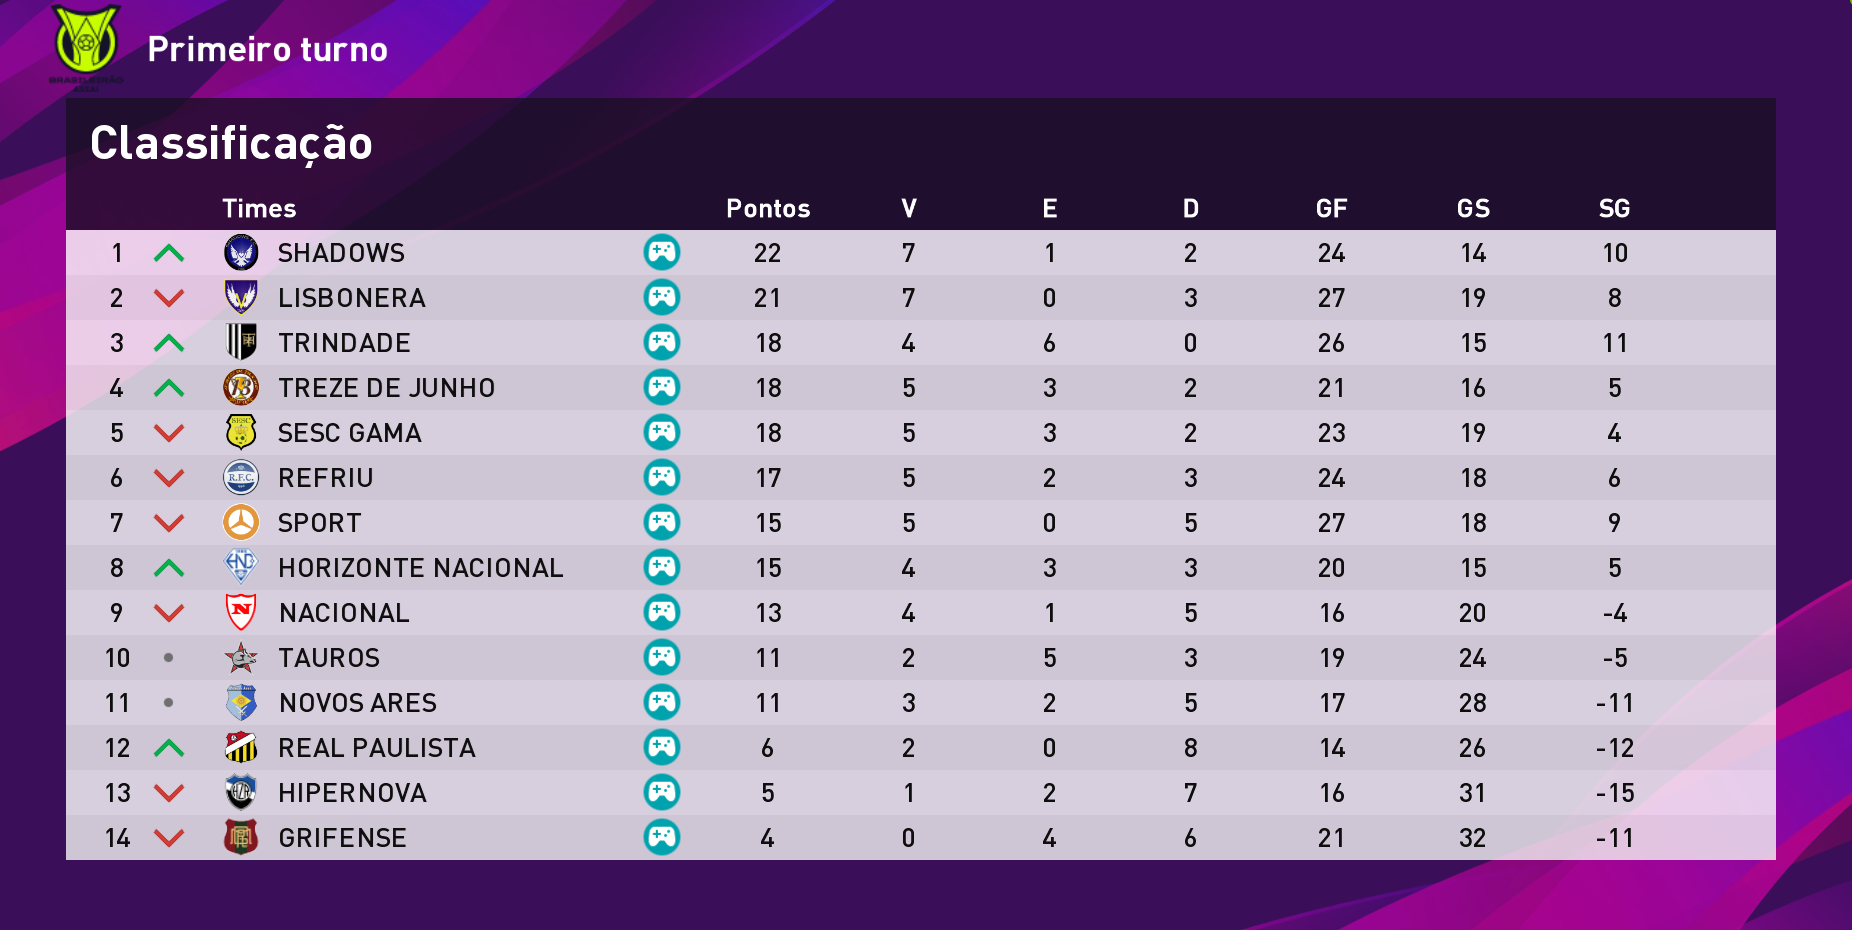
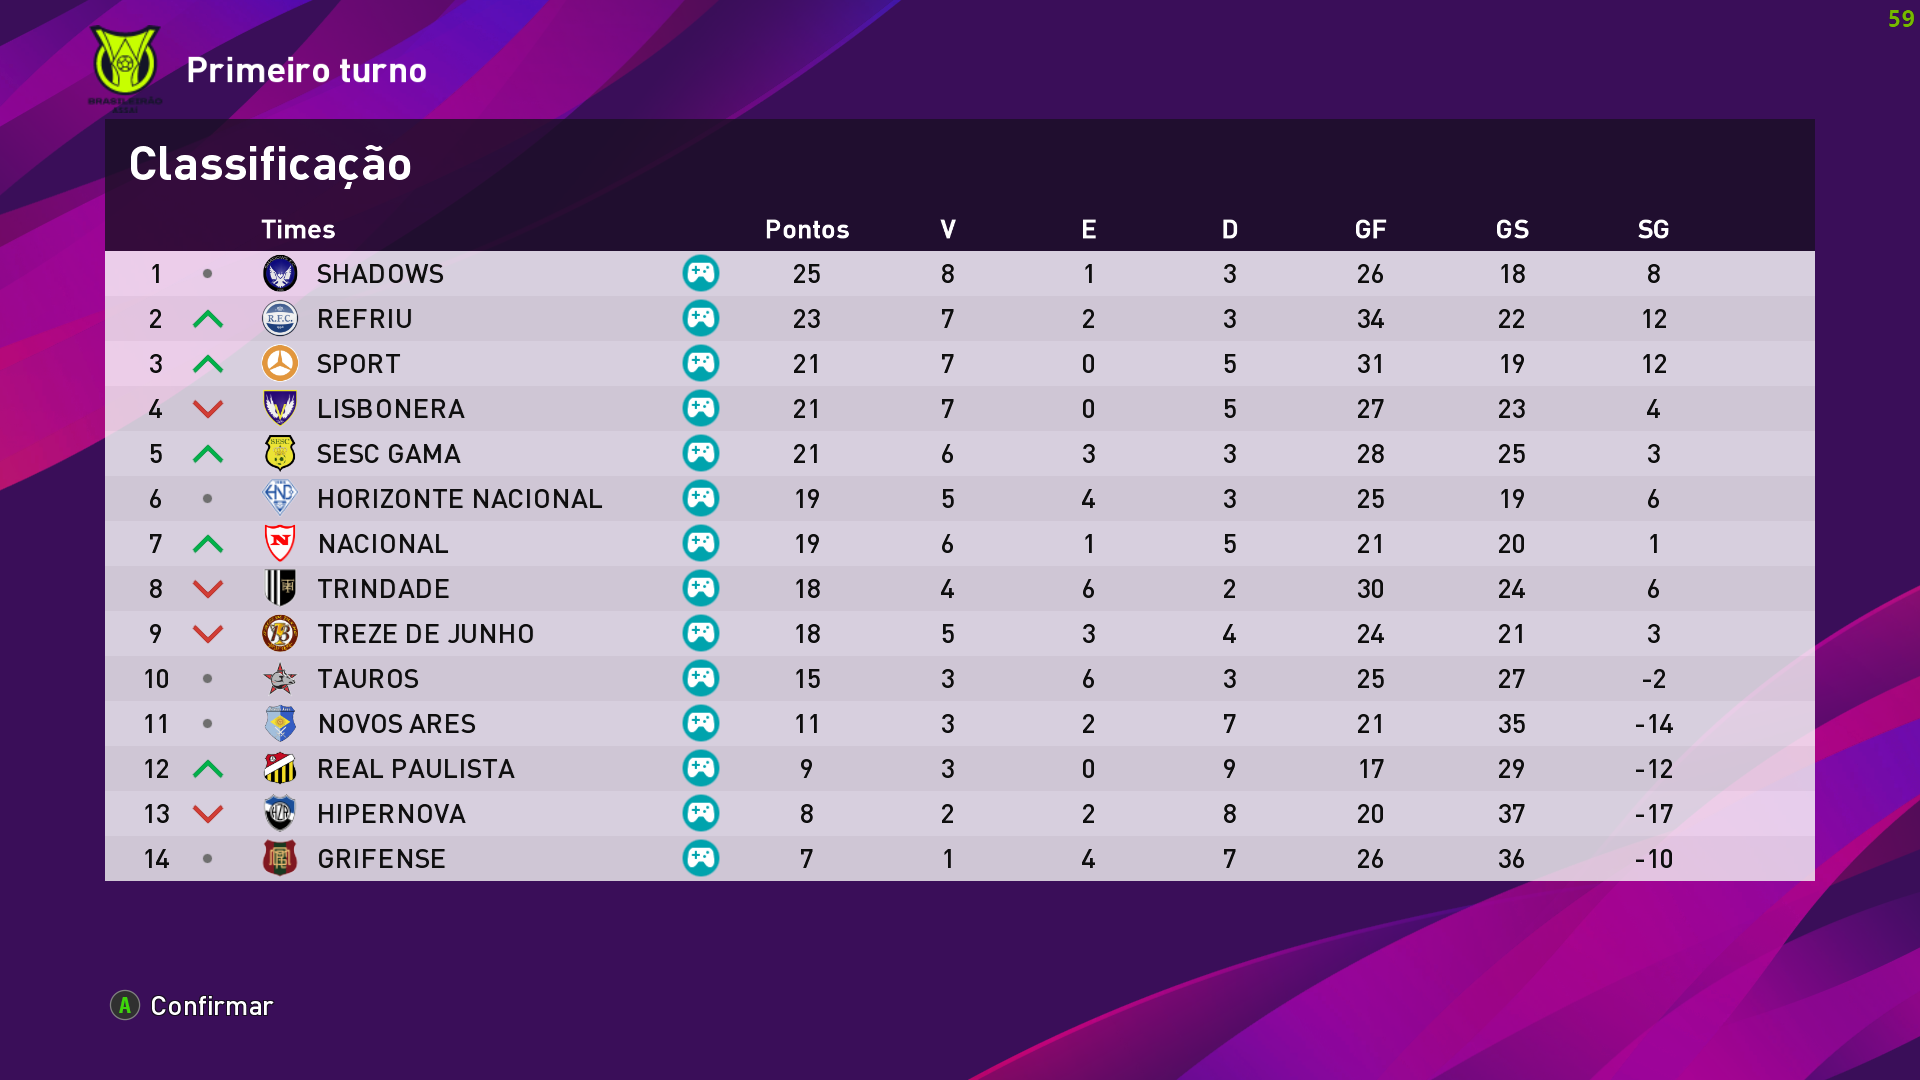
Update

diff --git a/index.html b/index.html
@@ -490,38 +490,126 @@
             </tr>
             <tr>
                 <td><img src="./img/Sesc.png" alt="Sesc" class="escudo"><p>Sesc</p></td>
-                <td class="placar"><p>0 - 0</p></td>
+                <td class="placar"><p><a href="https://www.youtube.com/watch?v=q2m2SusC3bg&list=PLijsnlzMsyRkzvSWsiut39l5uSuvKTDen&index=38" target="_blank">1 - 3</a></p></td>
                 <td><img src="./img/Sport.png" alt="Sport" class="escudo"><p>Sport</p></td>
             </tr>
             <tr>
                 <td><img src="./img/Lisbonera.png" alt="Lisbonera" class="escudo"><p>Lisbonera</p></td>
-                <td class="placar"><p>0 - 0</p></td>
+                <td class="placar"><p><a href="https://www.youtube.com/watch?v=554NrI4xUao&list=PLijsnlzMsyRkzvSWsiut39l5uSuvKTDen&index=39" target="_blank">0 - 3</a></p></td>
                 <td><img src="./img/Tauros.png" alt="Tauros" class="escudo"><p>Tauros</p></td>
             </tr>
             <tr>
                 <td><img src="./img/Horizonte.png" alt="Horizonte" class="escudo"><p>Horizonte</p></td>
-                <td class="placar"><p>0 - 0</p></td>
+                <td class="placar"><p><a href="https://www.youtube.com/watch?v=cv4NVHWH2sI&list=PLijsnlzMsyRkzvSWsiut39l5uSuvKTDen&index=40" target="_blank">2 - 1</a></p></td>
                 <td><img src="./img/Treze.png" alt="Treze" class="escudo"><p>Treze</p></td>
             </tr>
             <tr>
                 <td><img src="./img/Real.png" alt="Real" class="escudo"><p>Real</p></td>
-                <td class="placar"><p><a href="" target="_blank">0 - 0</a></p></td>
+                <td class="placar"><p><a href="https://www.youtube.com/watch?v=4CeproG9KLM&list=PLijsnlzMsyRkzvSWsiut39l5uSuvKTDen&index=41" target="_blank">0 - 1</a></p></td>
                 <td><img src="./img/Nacional.png" alt="Nacional" class="escudo"><p>Nacional</p></td>
             </tr>
             <tr>
                 <td><img src="./img/Hipernova.png" alt="Hipernova" class="escudo"><p>Hipernova</p></td>
-                <td class="placar"><p><a href="" target="_blank">0 - 0</a></p></td>
+                <td class="placar"><p><a href="https://www.youtube.com/watch?v=dsaResxZXCk&list=PLijsnlzMsyRkzvSWsiut39l5uSuvKTDen&index=42" target="_blank">4 - 2</a></p></td>
                 <td><img src="./img/Grifense.png" alt="Grifense" class="escudo"><p>Grifense</p></td>
             </tr>
             <tr>
                 <td><img src="./img/Shadows.png" alt="Shadows" class="escudo"><p>Shadows</p></td>
-                <td class="placar"><p>0 - 0</p></td>
+                <td class="placar"><p><a href="https://www.youtube.com/watch?v=9YaZdEBCFIg&list=PLijsnlzMsyRkzvSWsiut39l5uSuvKTDen&index=43" target="_blank">2 - 1</a></p></td>
                 <td><img src="./img/Novos.png" alt="Novos Ares" class="escudo"><p>Novos Ares</p></td>
             </tr>
             <tr>
                 <td><img src="./img/Refriu.png" alt="Refriu" class="escudo"><p>Refriu</p></td>
+                <td class="placar"><p><a href="https://www.youtube.com/watch?v=plUhRCYrIiw&list=PLijsnlzMsyRkzvSWsiut39l5uSuvKTDen&index=44" target="_blank">5 - 1</a></p></td>
+                <td><img src="./img/Trindade.png" alt="Trindade" class="escudo"><p>Trindade</p></td>
+            </tr>
+        </table>
+
+        <table class="invisivel" id="rod12">
+            <caption>Rodada 12</caption>
+            <tr>
+                <th>Mandante</th>
+                <th>Resultado</th>
+                <th>Visitante</th>
+            </tr>
+            <tr>
+                <td><img src="./img/Trindade.png" alt="Trindade" class="escudo"><p>Trindade</p></td>
+                <td class="placar"><p><a href="https://www.youtube.com/watch?v=gk_GmUjE4S4&list=PLijsnlzMsyRkzvSWsiut39l5uSuvKTDen&index=45" target="_blank">3 - 4</a></p></td>
+                <td><img src="./img/Sesc.png" alt="Sesc" class="escudo"><p>Sesc</p></td>
+            </tr>
+            <tr>
+                <td><img src="./img/Sport.png" alt="Sport" class="escudo"><p>Sport</p></td>
+                <td class="placar"><p><a href="https://www.youtube.com/watch?v=fxts_xHVjKw&list=PLijsnlzMsyRkzvSWsiut39l5uSuvKTDen&index=46" target="_blank">1 - 0</a></p></td>
+                <td><img src="./img/Lisbonera.png" alt="Lisbonera" class="escudo"><p>Lisbonera</p></td>
+            </tr>
+            <tr>
+                <td><img src="./img/Tauros.png" alt="Tauros" class="escudo"><p>Tauros</p></td>
+                <td class="placar"><p><a href="https://www.youtube.com/watch?v=j6P9jsqOk08&list=PLijsnlzMsyRkzvSWsiut39l5uSuvKTDen&index=47" target="_blank">3 - 3</a></p></td>
+                <td><img src="./img/Horizonte.png" alt="Horizonte" class="escudo"><p>Horizonte</p></td>
+            </tr>
+            <tr>
+                <td><img src="./img/Treze.png" alt="Treze" class="escudo"><p>Treze</p></td>
+                <td class="placar"><p><a href="https://www.youtube.com/watch?v=_JSSyWNZse8&list=PLijsnlzMsyRkzvSWsiut39l5uSuvKTDen&index=48" target="_blank">2 - 3</a></p></td>
+                <td><img src="./img/Real.png" alt="Real" class="escudo"><p>Real</p></td>
+            </tr>
+            <tr>
+                <td><img src="./img/Nacional.png" alt="Nacional" class="escudo"><p>Nacional</p></td>
+                <td class="placar"><p><a href="https://www.youtube.com/watch?v=BQQaFQgcrsU&list=PLijsnlzMsyRkzvSWsiut39l5uSuvKTDen&index=49" target="_blank">4 - 0</a></p></td>
+                <td><img src="./img/Hipernova.png" alt="Hipernova" class="escudo"><p>Hipernova</p></td>
+            </tr>
+            <tr>
+                <td><img src="./img/Grifense.png" alt="Grifense" class="escudo"><p>Grifense</p></td>
+                <td class="placar"><p><a href="https://www.youtube.com/watch?v=wu75Xbm8Nhc&list=PLijsnlzMsyRkzvSWsiut39l5uSuvKTDen&index=50" target="_blank">3 - 0</a></p></td>
+                <td><img src="./img/Shadows.png" alt="Shadows" class="escudo"><p>Shadows</p></td>
+            </tr>
+            <tr>
+                <td><img src="./img/Novos.png" alt="Novos Ares" class="escudo"><p>Novos Ares</p></td>
+                <td class="placar"><p><a href="https://www.youtube.com/watch?v=jP331mV-wEo&list=PLijsnlzMsyRkzvSWsiut39l5uSuvKTDen&index=51" target="_blank">3 - 5</a></p></td>
+                <td><img src="./img/Refriu.png" alt="Refriu" class="escudo"><p>Refriu</p></td>
+            </tr>
+        </table>
+
+        <table class="invisivel" id="rod13">
+            <caption>Rodada 13</caption>
+            <tr>
+                <th>Mandante</th>
+                <th>Resultado</th>
+                <th>Visitante</th>
+            </tr>
+            <tr>
+                <td><img src="./img/Refriu.png" alt="Refriu" class="escudo"><p>Refriu</p></td>
+                <td class="placar"><p><a href="" target="_blank">0 - 0</a></p></td>
+                <td><img src="./img/Sesc.png" alt="Sesc" class="escudo"><p>Sesc</p></td>
+            </tr>
+            <tr>
+                <td><img src="./img/Lisbonera.png" alt="Lisbonera" class="escudo"><p>Lisbonera</p></td>
                 <td class="placar"><p><a href="" target="_blank">0 - 0</a></p></td>
                 <td><img src="./img/Trindade.png" alt="Trindade" class="escudo"><p>Trindade</p></td>
+            </tr>
+            <tr>
+                <td><img src="./img/Horizonte.png" alt="Horizonte" class="escudo"><p>Horizonte</p></td>
+                <td class="placar"><p><a href="" target="_blank">0 - 0</a></p></td>
+                <td><img src="./img/Sport.png" alt="Sport" class="escudo"><p>Sport</p></td>
+            </tr>
+            <tr>
+                <td><img src="./img/Real.png" alt="Real" class="escudo"><p>Real</p></td>
+                <td class="placar"><p><a href="" target="_blank">0 - 0</a></p></td>
+                <td><img src="./img/Tauros.png" alt="Tauros" class="escudo"><p>Tauros</p></td>
+            </tr>
+            <tr>
+                <td><img src="./img/Hipernova.png" alt="Hipernova" class="escudo"><p>Hipernova</p></td>
+                <td class="placar"><p><a href="" target="_blank">0 - 0</a></p></td>
+                <td><img src="./img/Treze.png" alt="Treze" class="escudo"><p>Treze</p></td>
+            </tr>
+            <tr>
+                <td><img src="./img/Shadows.png" alt="Shadows" class="escudo"><p>Shadows</p></td>
+                <td class="placar"><p><a href="" target="_blank">0 - 0</a></p></td>
+                <td><img src="./img/Nacional.png" alt="Nacional" class="escudo"><p>Nacional</p></td>
+            </tr>
+            <tr>
+                <td><img src="./img/Novos.png" alt="Novos Ares" class="escudo"><p>Novos Ares</p></td>
+                <td class="placar"><p><a href="" target="_blank">0 - 0</a></p></td>
+                <td><img src="./img/Grifense.png" alt="Grifense" class="escudo"><p>Grifense</p></td>
             </tr>
         </table>
 

diff --git a/script.js b/script.js
@@ -10,6 +10,8 @@ let rod8 = document.getElementById('rod8')
 let rod9 = document.getElementById('rod9')
 let rod10 = document.getElementById('rod10')
 let rod11 = document.getElementById('rod11')
+let rod12 = document.getElementById('rod12')
+let rod13 = document.getElementById('rod13')
 let btn = document.getElementById('btn')
 let btnVoltar = document.getElementById('voltar')
 let btnAvancar = document.getElementById('avancar')
@@ -50,6 +52,8 @@ function verRodada() {
             rod9.classList.add('invisivel')
             rod10.classList.add('invisivel')
             rod11.classList.add('invisivel')
+            rod12.classList.add('invisivel')
+            rod13.classList.add('invisivel')
             break;
         case 2:
             rod2.classList.remove('invisivel')
@@ -63,6 +67,8 @@ function verRodada() {
             rod9.classList.add('invisivel')
             rod10.classList.add('invisivel')
             rod11.classList.add('invisivel')
+            rod12.classList.add('invisivel')
+            rod13.classList.add('invisivel')
             break;
         case 3:
             rod3.classList.remove('invisivel')
@@ -76,6 +82,8 @@ function verRodada() {
             rod9.classList.add('invisivel')
             rod10.classList.add('invisivel')
             rod11.classList.add('invisivel')
+            rod12.classList.add('invisivel')
+            rod13.classList.add('invisivel')
             break;
         case 4:
             rod4.classList.remove('invisivel')
@@ -89,6 +97,8 @@ function verRodada() {
             rod9.classList.add('invisivel')
             rod10.classList.add('invisivel')
             rod11.classList.add('invisivel')
+            rod12.classList.add('invisivel')
+            rod13.classList.add('invisivel')
             break;
         case 5:
             rod5.classList.remove('invisivel')
@@ -102,6 +112,8 @@ function verRodada() {
             rod9.classList.add('invisivel')
             rod10.classList.add('invisivel')
             rod11.classList.add('invisivel')
+            rod12.classList.add('invisivel')
+            rod13.classList.add('invisivel')
             break;
         case 6:
             rod6.classList.remove('invisivel')
@@ -115,6 +127,8 @@ function verRodada() {
             rod9.classList.add('invisivel')
             rod10.classList.add('invisivel')
             rod11.classList.add('invisivel')
+            rod12.classList.add('invisivel')
+            rod13.classList.add('invisivel')
             break;   
         case 7:
             rod7.classList.remove('invisivel')
@@ -128,6 +142,8 @@ function verRodada() {
             rod9.classList.add('invisivel')
             rod10.classList.add('invisivel')
             rod11.classList.add('invisivel')
+            rod12.classList.add('invisivel')
+            rod13.classList.add('invisivel')
             break;
         case 8:
             rod8.classList.remove('invisivel')
@@ -141,6 +157,8 @@ function verRodada() {
             rod9.classList.add('invisivel')
             rod10.classList.add('invisivel')
             rod11.classList.add('invisivel')
+            rod12.classList.add('invisivel')
+            rod13.classList.add('invisivel')
             break;
         case 9:
             rod9.classList.remove('invisivel')
@@ -154,6 +172,8 @@ function verRodada() {
             rod8.classList.add('invisivel')
             rod10.classList.add('invisivel')
             rod11.classList.add('invisivel')
+            rod12.classList.add('invisivel')
+            rod13.classList.add('invisivel')
             break;
         case 10:
             rod10.classList.remove('invisivel')
@@ -167,6 +187,8 @@ function verRodada() {
             rod8.classList.add('invisivel')
             rod9.classList.add('invisivel')
             rod11.classList.add('invisivel')
+            rod12.classList.add('invisivel')
+            rod13.classList.add('invisivel')
             break;
         case 11:
             rod11.classList.remove('invisivel')
@@ -180,7 +202,39 @@ function verRodada() {
             rod8.classList.add('invisivel')
             rod9.classList.add('invisivel')
             rod10.classList.add('invisivel')
-            break;        
+            rod12.classList.add('invisivel')
+            rod13.classList.add('invisivel')
+            break;
+        case 12:
+            rod12.classList.remove('invisivel')
+            rod1.classList.add('invisivel')
+            rod2.classList.add('invisivel')
+            rod3.classList.add('invisivel')
+            rod4.classList.add('invisivel')
+            rod5.classList.add('invisivel')
+            rod6.classList.add('invisivel')
+            rod7.classList.add('invisivel')
+            rod8.classList.add('invisivel')
+            rod9.classList.add('invisivel')
+            rod10.classList.add('invisivel')
+            rod11.classList.add('invisivel')
+            rod13.classList.add('invisivel')
+            break;
+        case 13:
+            rod13.classList.remove('invisivel')
+            rod1.classList.add('invisivel')
+            rod2.classList.add('invisivel')
+            rod3.classList.add('invisivel')
+            rod4.classList.add('invisivel')
+            rod5.classList.add('invisivel')
+            rod6.classList.add('invisivel')
+            rod7.classList.add('invisivel')
+            rod8.classList.add('invisivel')
+            rod9.classList.add('invisivel')
+            rod10.classList.add('invisivel')
+            rod11.classList.add('invisivel')
+            rod12.classList.add('invisivel')
+            break;    
      }
 
      nRodada.value = ''
